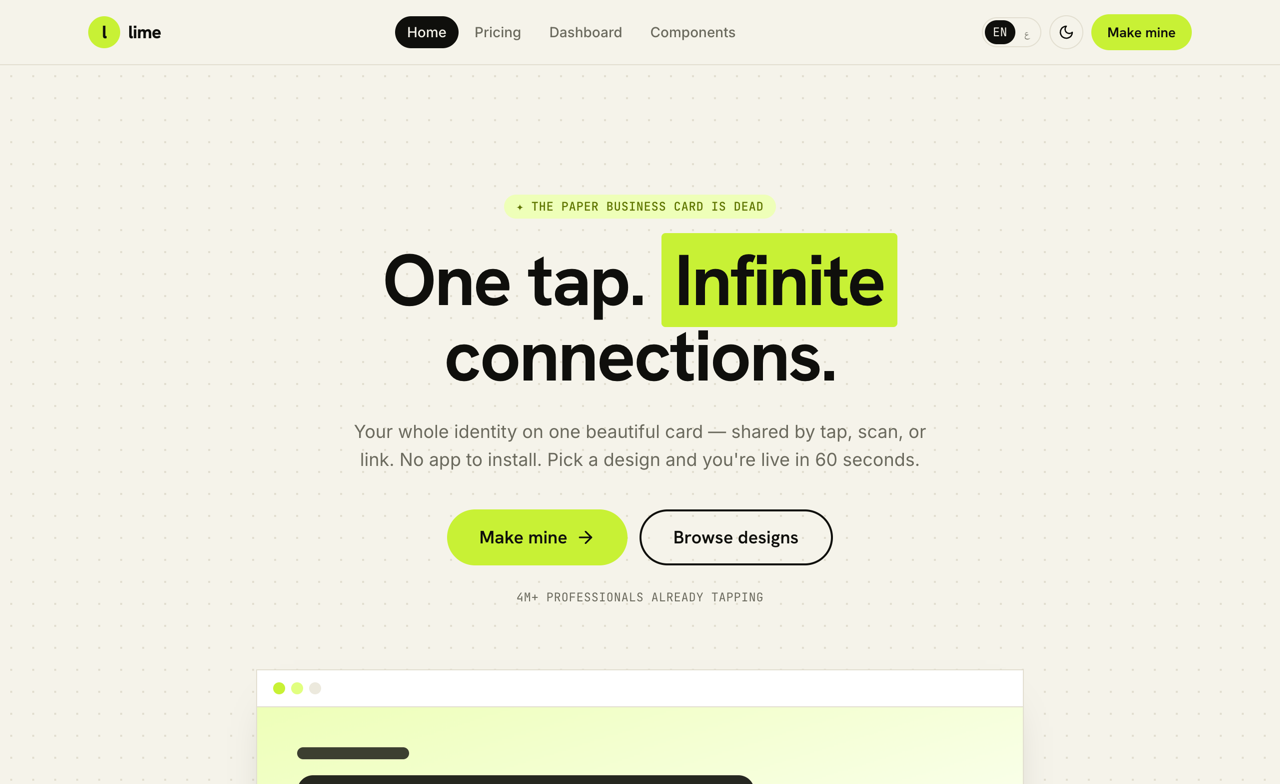
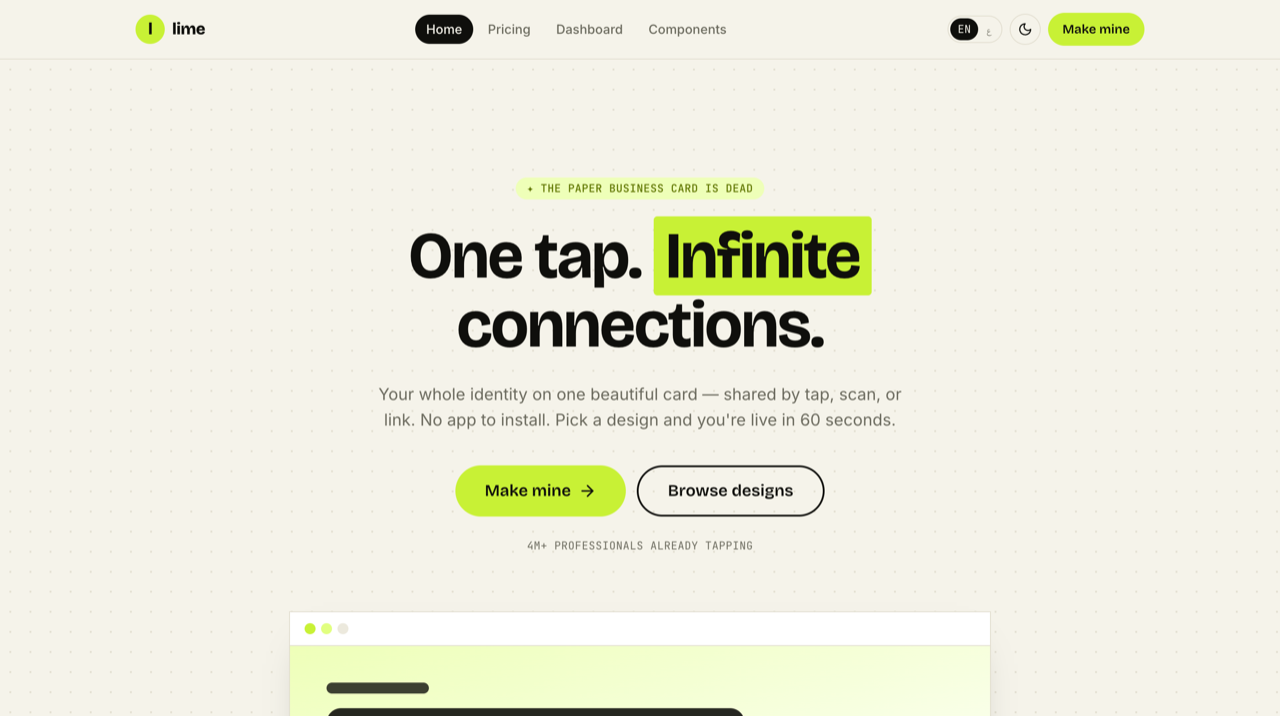
fix(fonts): match the reference — Bricolage Grotesque (EN) + Thmanyah Sans (AR)
Self-host Thmanyah Sans for Arabic; Bricolage Grotesque for the Latin display.
Recaptured screenshots.

diff --git a/react/src/app.css b/react/src/app.css
@@ -1,6 +1,32 @@
 @import "tailwindcss";
 @import "../../design/theme.css";
 
+/* Arabic display + body face (matches the reference identity). Self-hosted. */
+@font-face {
+  font-family: "Thmanyah Sans";
+  src: url("./fonts/ThmanyahSans-Regular.woff2") format("woff2");
+  font-weight: 400;
+  font-display: swap;
+}
+@font-face {
+  font-family: "Thmanyah Sans";
+  src: url("./fonts/ThmanyahSans-Medium.woff2") format("woff2");
+  font-weight: 500;
+  font-display: swap;
+}
+@font-face {
+  font-family: "Thmanyah Sans";
+  src: url("./fonts/ThmanyahSans-Bold.woff2") format("woff2");
+  font-weight: 700;
+  font-display: swap;
+}
+@font-face {
+  font-family: "Thmanyah Sans";
+  src: url("./fonts/ThmanyahSans-Black.woff2") format("woff2");
+  font-weight: 800;
+  font-display: swap;
+}
+
 body {
   margin: 0;
 }

diff --git a/design/theme.css b/design/theme.css
@@ -1,11 +1,11 @@
 /**
  * Lime — Tailwind v4 theme (CSS-first). A limey product kit: warm cream + near-
- * black ink + a vivid acid-lime accent, heavy Hanken Grotesk display, monospace
+ * black ink + a vivid acid-lime accent, heavy Bricolage Grotesque display, monospace
  * micro-labels, highlight-marker headings. Light + dark + full RTL (Arabic).
  */
 @theme {
-  --font-display: "Hanken Grotesk", "Cairo", system-ui, sans-serif;
-  --font-sans: "Inter", "Cairo", system-ui, sans-serif;
+  --font-display: "Bricolage Grotesque", "Thmanyah Sans", system-ui, sans-serif;
+  --font-sans: "Inter", "Thmanyah Sans", system-ui, sans-serif;
   --font-mono: "JetBrains Mono", ui-monospace, SFMono-Regular, monospace;
 
   /* brand scale (acid lime / chartreuse) */
@@ -54,10 +54,10 @@
     --color-mark-foreground: #0f0f0c;
   }
 
-  /* Arabic prefers Cairo for both display and body. */
+  /* Arabic uses Thmanyah Sans for both display and body. */
   [dir="rtl"] {
-    --font-display: "Cairo", "Hanken Grotesk", sans-serif;
-    --font-sans: "Cairo", "Inter", sans-serif;
+    --font-display: "Thmanyah Sans", "Bricolage Grotesque", sans-serif;
+    --font-sans: "Thmanyah Sans", "Inter", sans-serif;
   }
 
   html {

diff --git a/react/index.html b/react/index.html
@@ -7,7 +7,7 @@
     <link rel="preconnect" href="https://fonts.googleapis.com" />
     <link rel="preconnect" href="https://fonts.gstatic.com" crossorigin />
     <link
-      href="https://fonts.googleapis.com/css2?family=Hanken+Grotesk:wght@500;600;700;800;900&family=Inter:wght@400;500;600&family=JetBrains+Mono:wght@400;500&family=Cairo:wght@400;600;700;800&display=swap"
+      href="https://fonts.googleapis.com/css2?family=Bricolage+Grotesque:opsz,wght@12..96,500;12..96,600;12..96,700;12..96,800&family=Inter:wght@400;500;600&family=JetBrains+Mono:wght@400;500&display=swap"
       rel="stylesheet"
     />
   </head>

diff --git a/react/src/i18n/ar.ts b/react/src/i18n/ar.ts
@@ -72,7 +72,7 @@ export const ar: Dict = {
     title: "نظام تصميم Lime",
     sub: "كل الرموز والمكوّنات في مكان واحد. بدّل الوضع الداكن وRTL من الشريط العلوي.",
     sections: { colors: "الألوان", type: "الخطوط", buttons: "الأزرار", pills: "الشارات", inputs: "الحقول", cards: "البطاقات" },
-    display: "عرض / Hanken Grotesk",
+    display: "عرض / Bricolage Grotesque",
     heading: "عنوان / 800",
     body: "نص / Inter — نصّ تجريبي بالعربية والإنجليزية.",
     mono: "أحادي / JetBrains — 0123456789",

diff --git a/react/src/i18n/en.ts b/react/src/i18n/en.ts
@@ -70,7 +70,7 @@ export const en = {
     title: "Lime design system",
     sub: "Every token and component in one place. Toggle dark mode and RTL in the top bar.",
     sections: { colors: "Colors", type: "Typography", buttons: "Buttons", pills: "Pills & badges", inputs: "Inputs", cards: "Cards" },
-    display: "Display / Hanken Grotesk",
+    display: "Display / Bricolage Grotesque",
     heading: "Heading / 800",
     body: "Body / Inter — the quick brown fox jumps over the lazy dog.",
     mono: "Mono / JetBrains — 0123456789",